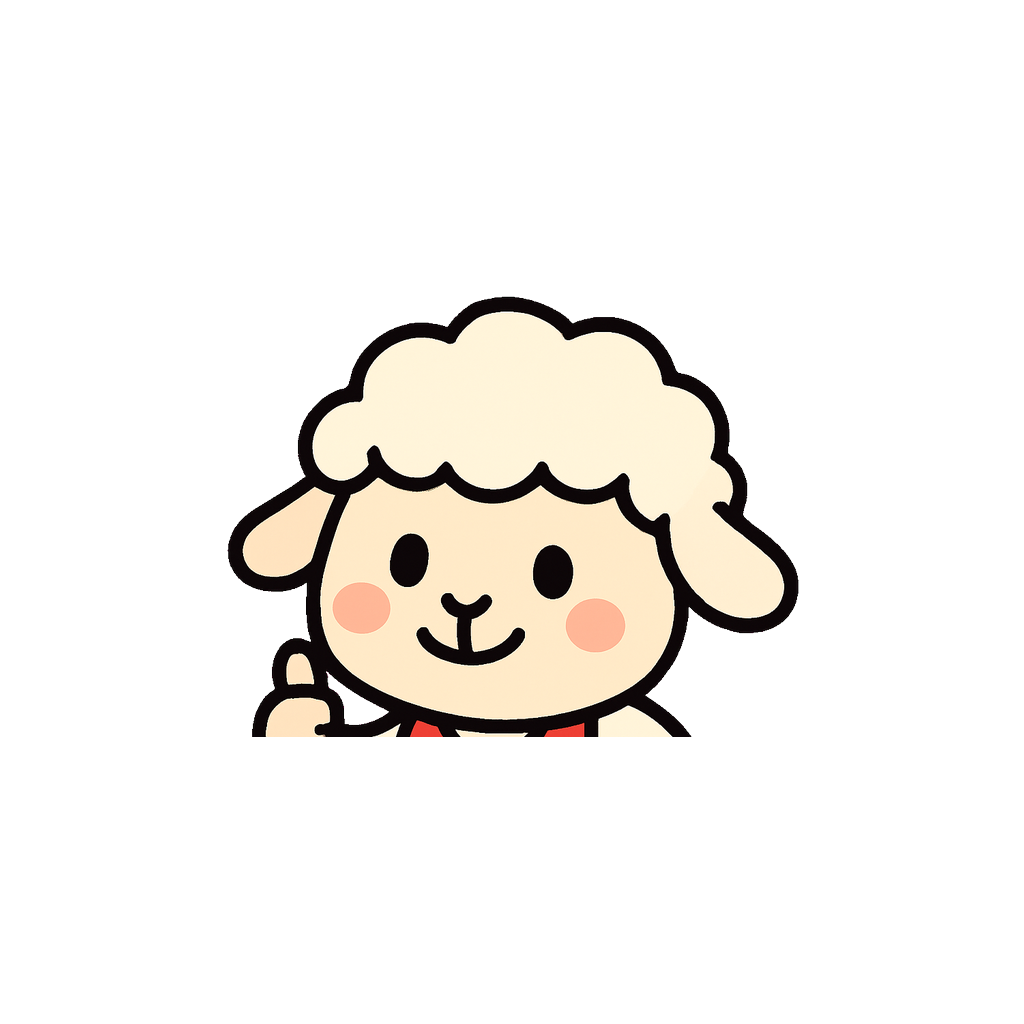
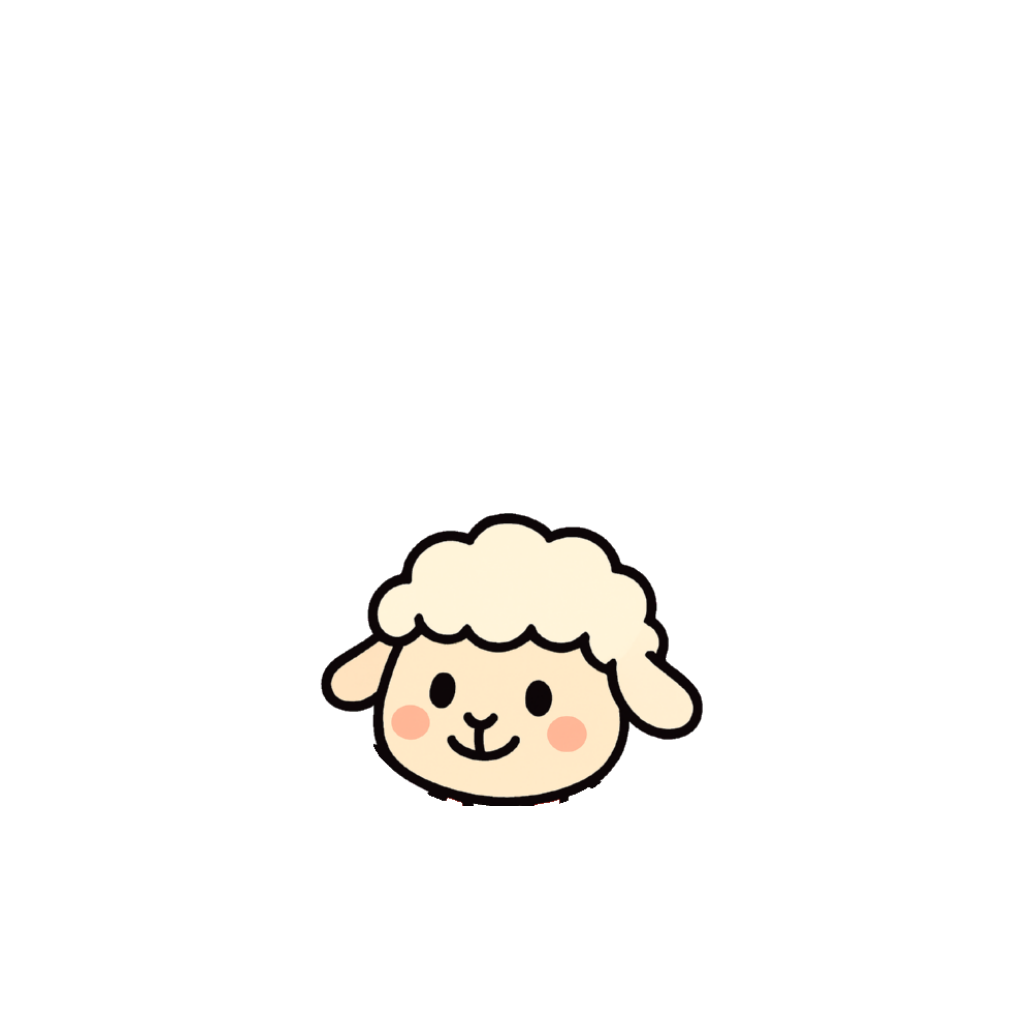
feat(아이콘): 앱 아이콘에 워드마크 "5키로" + 오키 얼굴 (녹색 적용 · 아이보리 보관)
회장 지시: "어플 아이콘에도 5km가 표시되는 방법" → 워드마크 위 / 얼굴 아래로 배치하고,
녹색·아이보리 두 벌을 만들어 **녹색을 적용**(아이보리는 자산으로 보관, 배경색만 바꾸면 교체 가능).

## 얼굴만 잘라내기 — 사각형 크롭으로는 안 됐다
오키는 엄지척 손이 얼굴 왼쪽 아래에 붙어 있고 **귀와 세로로 겹친다**. 손을 피해 자르면 이번엔
턱이 직선으로 잘려 깨져 보였다(둘 다 실제로 겪음). → `scripts/crop-mascot-face.mjs` 신규:
얼굴·울·귀 안쪽에 시드를 찍고 **밝은 픽셀만 flood fill** 해 형태로 골라낸 뒤, 어두운 픽셀
방향으로만 확장해 윤곽선까지 흡수한다. 마스크 밖(손·팔·조끼)은 전부 투명.
- 목 밑에 남던 점: 윤곽선으로 얼굴과 **한 덩어리로 이어져** 있어 조각 제거로는 안 떨어졌다 →
  **턱 안쪽 최하단 + 선 두께**를 경계로 잘라내 해결(회장 지적).

## 글자는 AI가 아니라 코드로 (CLAUDE.md 규칙)
HTML로 조판해 크롬 헤드리스로 렌더한다(`scripts/gen-icon-html.py` · `scripts/README-icon.md`).

두 가지 함정을 겪고 문서에 박았다:
- **어댑티브 캔버스**: foreground는 108dp지만 마스크가 보여주는 건 **가운데 72dp**뿐 →
  1024 캔버스에서 디자인을 **가운데 683px**에 배치해야 한다.
- **CSS `font-size: %`는 부모 글자 크기 기준**(요소 폭이 아니다) → 처음에 글자가 의도의
  1/3로 렌더됐다. 부모에 `font-size:<폭>px`를 주고 자식은 `em`으로.

세이프존도 처음엔 108dp 기준(61%)으로 잘못 그려 글자를 필요 이상 줄였다가, 원형 마스크
렌더로 반증하고 바로잡았다 — 34%는 완전 원형에서도 안 잘린다.

## 자산
| 파일 | 용도 |
|---|---|
| `android-icon-foreground.png` | 어댑티브 foreground(녹색 배경용·흰 글자) — **적용** |
| `android-icon-foreground-ivory.png` | 아이보리 배경용(녹색 글자) — 보관 |
| `icon.png` / `icon-ivory.png` | 스토어 512(배경 포함) 녹색/아이보리 |
| `*-oki-only.png` | 글자 넣기 전(얼굴만) 원본 보관 |
| `mascot-face-m-red.png` | 잘라낸 얼굴(재사용용) |

검증: 실기기 앱 서랍에서 워드마크·얼굴 모두 또렷하고 스퀘어클 마스크에서 잘림 없음.

Changed region(s): [[0.2188, 0.2812, 0.7812, 0.8125]]

diff --git a/app/scripts/gen-icon-html.py b/app/scripts/gen-icon-html.py
@@ -1,0 +1,35 @@
+# 아이콘 자산 HTML 생성 — 크롬 헤드리스로 정확한 픽셀 크기로 렌더한다.
+# 어댑티브 foreground 는 108dp 캔버스이고 **마스크가 보여주는 건 가운데 72dp**뿐이라,
+# 디자인을 1024 캔버스의 가운데 683px(=1024*72/108) 영역에 넣어야 잘리지 않는다.
+import io, os
+
+def page(size, area, bg, wordcolor, transparent):
+    off = (size - area) / 2
+    body_bg = "transparent" if transparent else bg
+    return f"""<!doctype html><meta charset="utf-8">
+<style>
+@font-face{{font-family:'BHS';src:url('bhs.ttf') format('truetype');font-display:block}}
+*{{margin:0;padding:0;box-sizing:border-box}}
+html,body{{width:{size}px;height:{size}px;background:{body_bg};overflow:hidden}}
+.area{{position:absolute;left:{off}px;top:{off}px;width:{area}px;height:{area}px;font-size:{area}px}}
+.word{{position:absolute;left:0;right:0;text-align:center;top:19%;
+  font-family:'BHS';font-size:.34em;line-height:1;letter-spacing:-.02em;color:{wordcolor}}}
+.face{{position:absolute;left:50%;transform:translateX(-50%);bottom:7%;width:56%}}
+.face img{{width:100%;display:block}}
+</style>
+<div class="area">
+  <div class="word">5키로</div>
+  <div class="face"><img src="oki-face.png"></div>
+</div>"""
+
+GREEN="#2f6e4a"; IVORY="#f9f1e4"
+jobs = [
+    # (파일명, 캔버스, 디자인영역, 배경, 글자색, 투명배경)
+    ("fg-green.html",  1024, 683, GREEN, "#ffffff", True),   # 어댑티브 foreground(녹색 배경용)
+    ("fg-ivory.html",  1024, 683, IVORY, GREEN,     True),   # 어댑티브 foreground(아이보리 배경용)
+    ("store-green.html", 512, 512, GREEN, "#ffffff", False), # 스토어 512 (배경 포함)
+    ("store-ivory.html", 512, 512, IVORY, GREEN,     False),
+]
+for name, size, area, bg, wc, tr in jobs:
+    open(name, "w", encoding="utf-8").write(page(size, area, bg, wc, tr))
+    print("wrote", name, f"{size}px / 디자인영역 {area}px")

diff --git a/app/scripts/README-icon.md b/app/scripts/README-icon.md
@@ -1,0 +1,48 @@
+# 앱 아이콘 만들기 (2026-07-31 · 워드마크 + 오키 얼굴)
+
+아이콘은 **글자가 들어가므로 AI로 그리지 않는다** — 한글을 AI에 맡기면 자소가 깨진다
+(`CLAUDE.md` 규칙). 마스코트 PNG + 글자를 **HTML로 조판해 크롬 헤드리스로 렌더**한다.
+
+## 1) 얼굴만 잘라내기
+```bash
+node scripts/crop-mascot-face.mjs assets/images/mascot-m-red.png /mnt/c/adb/icon/oki-face.png
+```
+사각형 크롭으로는 안 된다 — 엄지척 손이 얼굴 왼쪽 아래에 붙어 있고 귀와 세로로 겹쳐서,
+손을 피해 자르면 턱이 직선으로 잘린다. 그래서 **얼굴·울·귀 안쪽에 시드를 찍고 밝은 픽셀만
+채워 나가는**(flood fill) 방식으로 형태를 골라낸다. 자세한 근거는 스크립트 주석 참조.
+
+## 2) HTML 생성 → 크롬 헤드리스로 렌더
+```bash
+cd /mnt/c/adb/icon && python3 gen.py     # = scripts/gen-icon-html.py
+C='C:\Program Files\Google\Chrome\Application\chrome.exe'
+# 어댑티브 foreground(투명 배경)
+powershell.exe -NoProfile -Command "& '$C' --headless=new --disable-gpu \
+  --default-background-color=00000000 --virtual-time-budget=8000 \
+  --screenshot='C:\adb\icon\fg-green.png' --window-size=1024,1024 --hide-scrollbars \
+  'C:\adb\icon\fg-green.html'"
+```
+
+### ⚠ 어댑티브 아이콘의 캔버스 규칙
+foreground는 **108dp 캔버스**지만 런처 마스크가 보여주는 건 **가운데 72dp**뿐이다.
+그래서 1024px 캔버스에서 디자인을 **가운데 683px**(=1024×72/108) 영역에 넣는다.
+이걸 모르고 캔버스 전체에 디자인하면 사방이 잘린다.
+
+### ⚠ CSS `font-size: %` 함정
+`%`는 **부모의 글자 크기** 기준이지 요소 폭 기준이 아니다. 아이콘 폭 대비로 잡으려면
+부모(.area)에 `font-size:<폭>px`를 주고 자식은 `em`으로 쓴다. 처음에 이걸 놓쳐 글자가
+의도의 1/3 크기로 렌더됐다.
+
+## 3) 자산 배치
+| 파일 | 용도 |
+|---|---|
+| `android-icon-foreground.png` | 어댑티브 foreground (현재 = 녹색 배경용, 흰 글자) |
+| `android-icon-foreground-ivory.png` | 아이보리 배경용(녹색 글자) — 배경색 바꿀 때 교체 |
+| `icon.png` | 스토어·기본 아이콘 512 (배경 포함) |
+| `icon-ivory.png` | 아이보리 버전 보관 |
+| `*-oki-only.png` | 글자 넣기 전(얼굴만) 원본 보관 |
+
+배경색은 `app.json`의 `android.adaptiveIcon.backgroundColor`.
+아이보리로 바꾸려면 **foreground도 ivory 버전으로 함께** 교체해야 한다(글자 색이 다르다).
+
+⚠ `adaptiveIcon.backgroundImage`를 두면 `backgroundColor`보다 우선한다 — 색만 바꿔선 안 바뀐다
+(2026-07-30에 겪은 함정).
